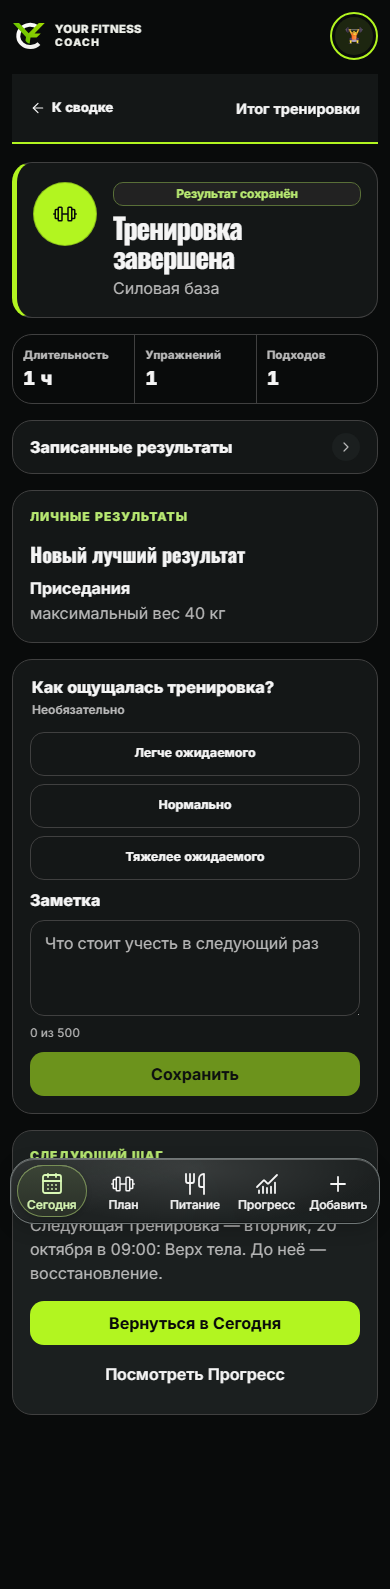
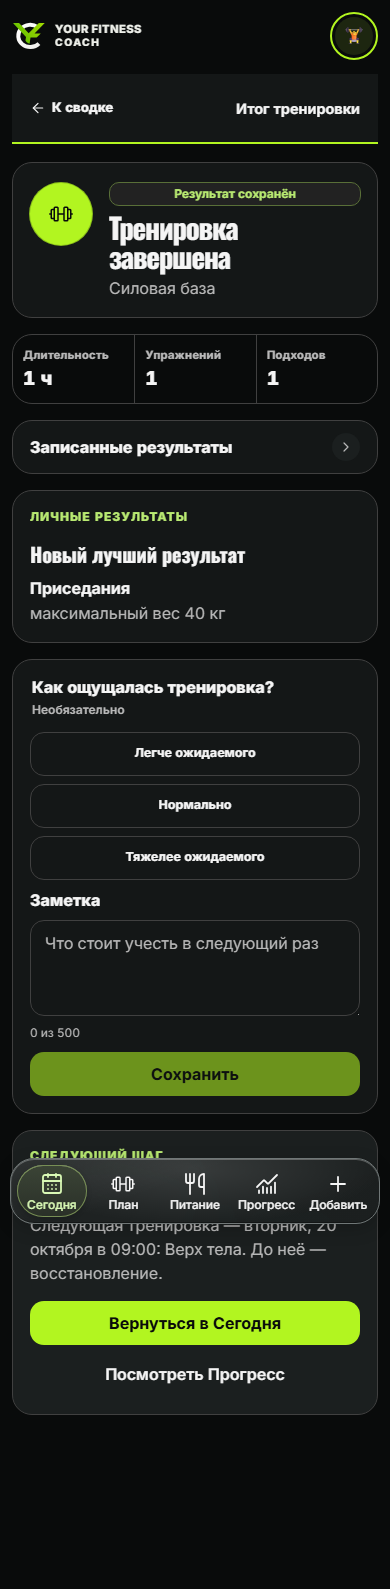
fix_workout_completion_remove_thick_lime_border

Changed region(s): [[0.2769, 0.1233, 0.6154, 0.185], [0.0308, 0.0925, 0.2462, 0.2159]]

diff --git a/frontend/tests/e2e/tma-smoke.spec.ts b/frontend/tests/e2e/tma-smoke.spec.ts
@@ -2278,20 +2278,44 @@ test('completion summary survives finish retry, feedback error, reload and TMA l
       '.workout-completion__feedback',
       '.workout-completion__next',
     ];
+    const probe = document.createElement('span');
+    probe.style.color = 'var(--v2-border)';
+    root.append(probe);
+    const expectedBorderColor = getComputedStyle(probe).color;
+    probe.remove();
     return {
       expectedRadius,
+      expectedBorderColor,
       cards: selectors.map((selector) => {
         const node = root.querySelector(selector);
         if (!node) throw new Error(`Missing completion card: ${selector}`);
         const style = getComputedStyle(node);
-        return { selector, radius: style.borderTopLeftRadius, borderWidth: style.borderTopWidth };
+        return {
+          selector,
+          radius: style.borderTopLeftRadius,
+          widths: [
+            style.borderTopWidth,
+            style.borderRightWidth,
+            style.borderBottomWidth,
+            style.borderLeftWidth,
+          ],
+          colors: [
+            style.borderTopColor,
+            style.borderRightColor,
+            style.borderBottomColor,
+            style.borderLeftColor,
+          ],
+        };
       }),
     };
   });
   expect(completionCardStyles.expectedRadius).toBe('20px');
   for (const card of completionCardStyles.cards) {
     expect(card.radius, card.selector).toBe(completionCardStyles.expectedRadius);
-    expect(card.borderWidth, card.selector).toBe('1px');
+    expect(card.widths, card.selector).toEqual(['1px', '1px', '1px', '1px']);
+    expect(card.colors, card.selector).toEqual(
+      Array(4).fill(completionCardStyles.expectedBorderColor),
+    );
   }
   const completionOrderCorrect = await tmaPage.locator('.workout-completion').evaluate((root) => {
     const selectors = [
@@ -2310,10 +2334,11 @@ test('completion summary survives finish retry, feedback error, reload and TMA l
       );
   });
   expect(completionOrderCorrect).toBe(true);
-  if (process.env.YFC_CAPTURE_871 === '1') {
-    for (const theme of ['dark', 'light'] as const) {
-      await tma.setTheme(theme);
-      await expect(tmaPage.locator('html')).toHaveAttribute('data-color-scheme', theme);
+  for (const theme of ['dark', 'light'] as const) {
+    await tma.setTheme(theme);
+    await expect(tmaPage.locator('html')).toHaveAttribute('data-color-scheme', theme);
+    await expectNeutralStartBoundary(tmaPage.locator('.workout-completion__hero'));
+    if (process.env.YFC_CAPTURE_871 === '1') {
       await tmaPage.screenshot({
         path: '../.artifacts/screenshots/issue-871/completion-390-' + theme + '-after.png',
         fullPage: true,

diff --git a/frontend/src/styles/pulse-concepts.css b/frontend/src/styles/pulse-concepts.css
@@ -87,9 +87,6 @@
   isolation: isolate;
   min-height: 0;
   padding: 24px;
-  border-color: color-mix(in srgb, var(--v2-lime) 48%, var(--v2-border));
-  border-left-width: 3px;
-  border-radius: var(--radius-control);
   background: var(--v2-surface);
   box-shadow: none;
 }

diff --git a/frontend/src/styles/design-v2.css b/frontend/src/styles/design-v2.css
@@ -2796,10 +2796,6 @@ body:has(.app-shell--design-v2) {
   box-shadow: none;
 }
 
-.workout-completion__hero {
-  border-left: 5px solid var(--v2-lime);
-}
-
 .workout-completion__check {
   border-color: var(--v2-lime);
   background: var(--v2-lime);
